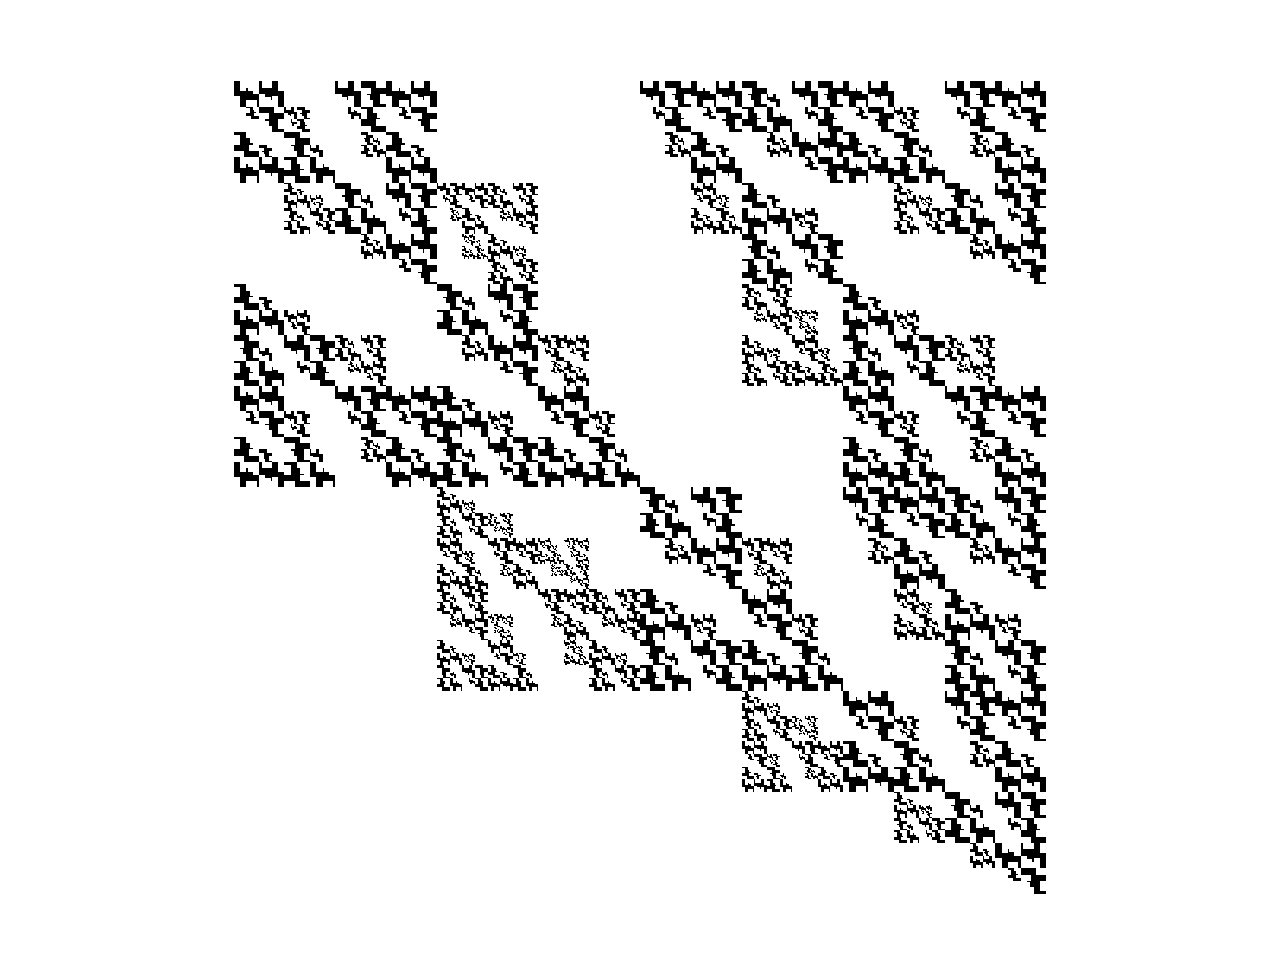
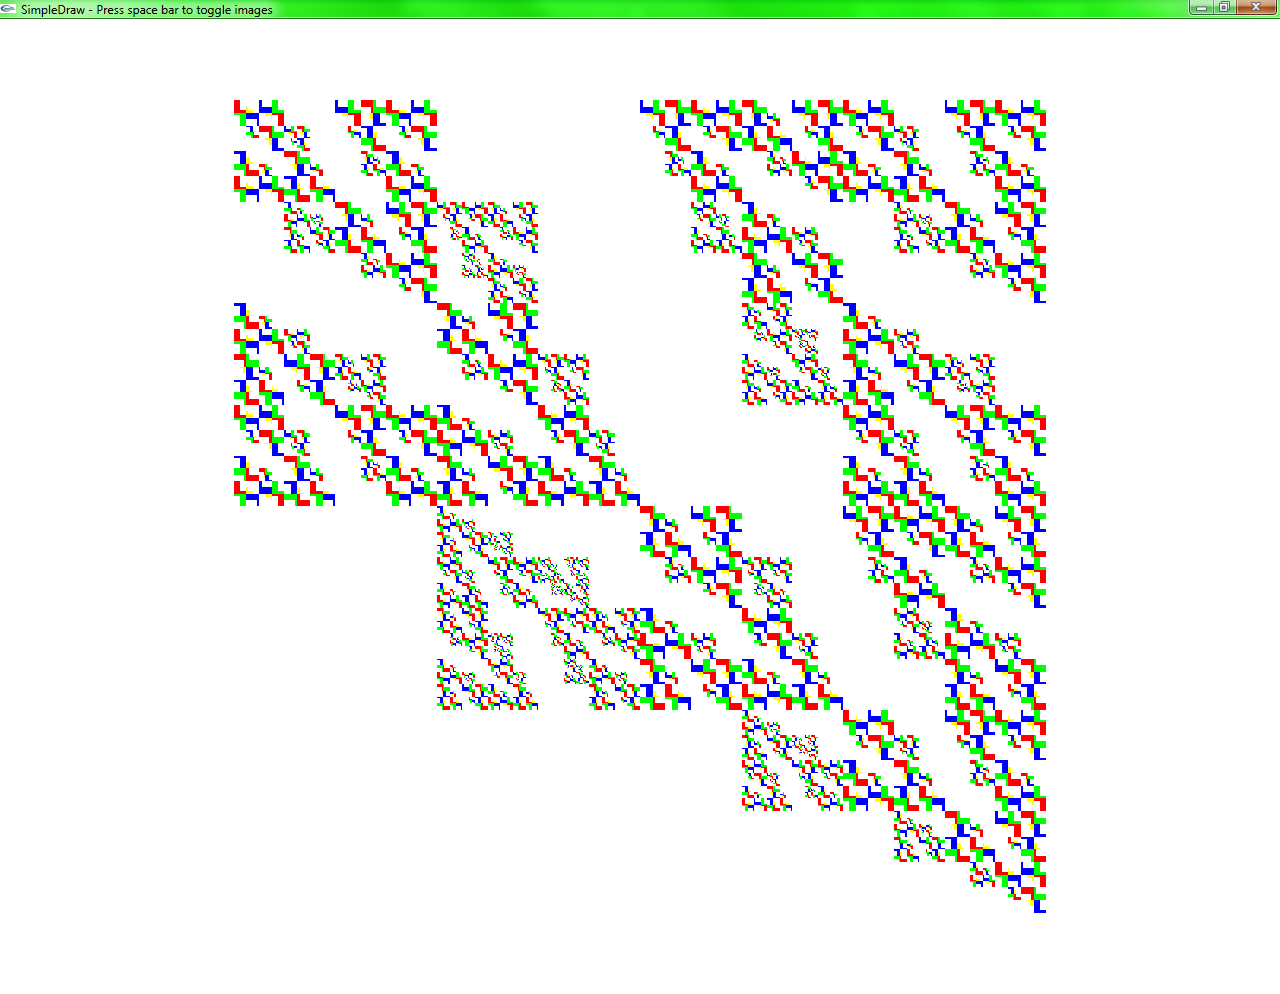
Added colors

Changed region(s): [[0.1562, 0.0615, 0.8438, 0.9231], [0.0, 0.0, 1.0, 0.0308]]

diff --git a/main.cpp b/main.cpp
@@ -72,23 +72,27 @@ void drawFractal(int num)
         glPushMatrix();
         glPushMatrix();
         //First L
+        glColor3f(1,0,0);
         glTranslatef(0.5,1.0,0.0);
         glRotatef(90,0,0,1);
         glScalef(-0.5,0.5,1.0);
         drawFractal(num - 1);
         glPopMatrix();
         //Second L
+        glColor3f(0,1,0);
         glTranslatef(0.5,0.5,0.0);
         glRotatef(-90,0,0,1);
         glScalef(-0.5,0.5,0.5);
         drawFractal(num - 1);
         glPopMatrix();
         //Third L
+        glColor3f(1,1,0);
         glTranslatef(0.5,0.5,0.0);
         glRotatef(180,0,0,1);
         glScalef(0.25,0.25,0.25);
         drawFractal(num - 1);
         //Fourth L
+        glColor3f(0,0,1);
         glPopMatrix ();
         glTranslatef(0.5,0.0,0.0);
         glScalef(0.5,0.5,0.5);
